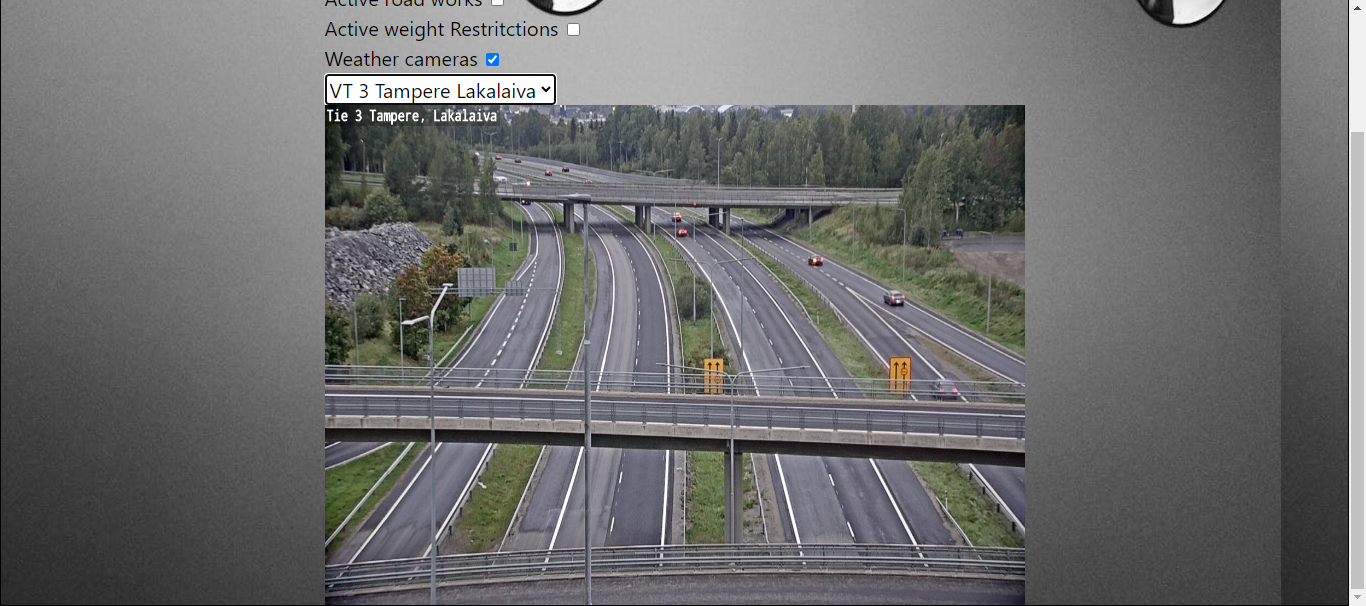
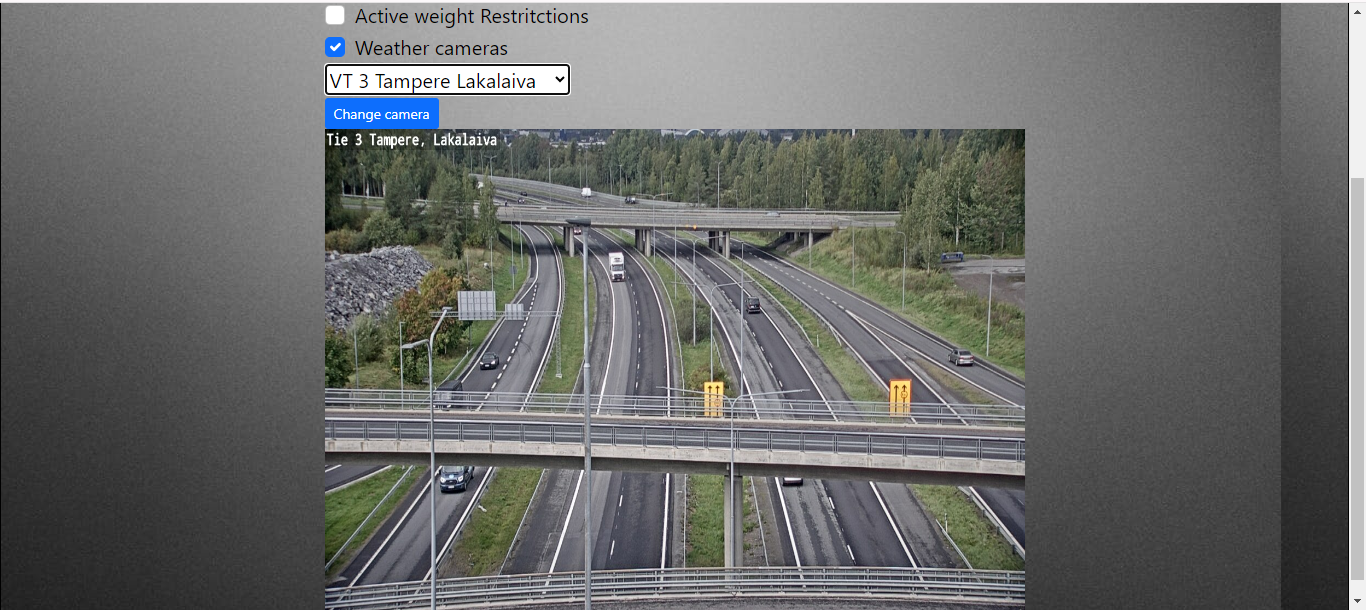
camera change feature added

diff --git a/src/pages/sea.js b/src/pages/sea.js
@@ -8,14 +8,56 @@ function Sea() {
     const [latitude, setLatitude] = useState()
     const [longitude, setLongitude] = useState()
     const [mapState,setMapState]=useState(false)
+    const [waterAreas,setWaterAreas]=useState(true)
+    const [closeButton,setCloseButton]=useState(true)
     
     var clicks=0
+    //useeffect huomaa heti, jos latitude longitude statet muuttuvat
     useEffect(() => {
         setLatitude(latitude);
         setLongitude(longitude)
        
     }, [latitude, longitude])
 
+    function hideContent() {
+        clicks=clicks+1
+        if (clicks % 1 === 0)
+        {
+            document.getElementById("lakeContent").hidden=true
+            setCloseButton(!closeButton)
+            //poistetaan cb:n valinta
+            document.getElementById("safetyCB").checked=false
+
+        }
+       
+    }
+
+
+    function safetyFails() {
+        document.getElementById("lakeContent").hidden=false
+        setCloseButton(!closeButton)
+        const seaUrl = 'https://meri.digitraffic.fi/api/aton/v1/faults'
+      
+        fetch(seaUrl)
+            .then(response => {
+                return response.json()
+            })
+            //data on json-tulosjoukon nimi
+            .then(data => {
+
+                console.log(data)
+                data.features.forEach(d => {
+                    const li = document.createElement("li")
+
+                    //kentässä näytetää json tulosjoukon roadstationid ja sensorvalue-
+                    li.innerText = "Area: " + d.properties.area_description + 'fairway: ' + d.properties.fairway_name_fi+" fixed: "+d.properties.fixed
+                    document.getElementById("list").appendChild(li)
+            })
+        })
+
+                
+
+    }
 
 
     function availableAreas() {
@@ -91,21 +133,30 @@ function Sea() {
                     <Route path="/websocket" element={<WsComponent />} />
                 </Route>
             </Routes>
-
+            <button id="closeBtn" hidden={closeButton} onClick={hideContent}>X</button>
             <div id="lakeContent" className="lakeContent">
                 <ul id="list" className="list"></ul>
             </div>
-            <label for="lake">Choose a water area:</label>
+            <input class="form-check-input" id='safetyCB' type="checkbox" onClick={safetyFails}></input>
+            <label class="form-check-label" for="safetyCB">Safety device faults</label>
+            <br></br>
+            <input class="form-check-input" id='marineCB' type="checkbox" ></input>
+            <label class="form-check-label" for="marineCB">Marine warnings</label>
+            <br></br>
+            <input class="form-check-input" id='waterCB' type="checkbox" onChange={()=>setWaterAreas(!waterAreas)} ></input>
+            <label class="form-check-label" for="waterCB">Water area information</label>
+            <br></br>
+            <label for="lake" hidden={waterAreas}>Choose a water area:</label>
 
-            <select name="lake" id="lake" onChange={e => getSelectedLake(e.target.value)}>
+            <select hidden={waterAreas} name="lake" id="lake" onChange={e => getSelectedLake(e.target.value)}>
                 <option value="8859">Kelloniemi</option>
                 <option value="20169">Hattukari</option>
                 <option value="20243">Kipsi</option>
                 <option value="20244">Talla</option>
             </select>
-            <label htmlFor="map">
+            <label hidden={waterAreas} htmlFor="map">
             Show the water area on the map</label>
-            <input id="map" type="checkbox" onChange={()=>setMapState(!mapState)}></input>
+            <input hidden={waterAreas} id="map" type="checkbox" onChange={()=>setMapState(!mapState)}></input>
             <br></br>
       
 
@@ -120,11 +171,11 @@ function Sea() {
                 <br></br>
                 <Link hidden to="/websocket">WebSocket</Link>
                 <div className="seaInput">
-                    <input type="text" id="name" className="name" placeholder="Or write site number here" onChange={e => setWaterName(e.target.value)}></input>
+                    <input type="text" hidden={waterAreas} id="name" className="name" placeholder="Or write site number here" onChange={e => setWaterName(e.target.value)}></input>
 
-                    <button onClick={() => getSelectedLake(waterName)} class="btn btn-primary">Fetch Data</button>
+                    <button onClick={() => getSelectedLake(waterName)} hidden={waterAreas} class="btn btn-primary">Fetch Data</button>
                     <br></br>
-                    <button class="btn btn-primary btn-sm" onClick={availableAreas}>Show site numbers</button>
+                    <button class="btn btn-primary btn-sm"hidden={waterAreas} onClick={availableAreas}>Show site numbers</button>
                 </div>
                 {mapState && <APIProvider apiKey={""}>
                 <Map

diff --git a/src/pages/weatherCamera.js b/src/pages/weatherCamera.js
@@ -1,24 +1,56 @@
 import { useState } from "react"
 
 function WeatherCam() {
-   
+    const camTre=['https://weathercam.digitraffic.fi/C0450701.jpg','https://weathercam.digitraffic.fi/C0450702.jpg','https://weathercam.digitraffic.fi/C0450703.jpg']
+    const camKur=["https://weathercam.digitraffic.fi/C1051401.jpg","https://weathercam.digitraffic.fi/C1051402.jpg","https://weathercam.digitraffic.fi/C1051409.jpg"]
+    const [camView,setCamView]=useState(0)   
     function getCamera(e) {
-        //e on parametrina saatava optionin value, joka annetaan img elementille sourceksi.
-        document.getElementById("camImg").src=e
+      
+        //talletetaan muuttujaan merkkijonon 3 ensimmäistä kirjainta
+        var city=e.substring(0,3)
+        //poistetaan 3 ensimmäistä kirjainta
+        var final=e.substring(3)
+        localStorage.setItem("city",city)
         
+        
+        //e on parametrina saatava optionin value, joka annetaan img elementille sourceksi.
+        document.getElementById("camImg").src=final
+        
+    }
+    function changeView() {
+        var city=localStorage.getItem("city")
+        console.log(city)
+      
+    
+        if (city==='tre')
+        {
+            setCamView(camView+1)
+            document.getElementById("camImg").src=camTre[camView]
 
+        }
+        else if (city==='kur')
+        {
+            setCamView(camView+1)
+            document.getElementById("camImg").src=camKur[camView]
+        }
+        //var val = WeatherCam()
+        //console.log(val)*/
+      
+    
     }
     return(
         <div>
             {/*e.target value eli valitun optionin value arvo lähetetään getcamera funktiolle*/}
-            <select onChange={e=>getCamera(e.target.value)}>
+            <select id="cameras" onChange={e=>getCamera(e.target.value,this)}>
                 <option value={'empty'} selected>Select</option>
-                <option value={'https://weathercam.digitraffic.fi/C0450701.jpg'}>VT 3 Tampere Lakalaiva</option>
+                <option value={"tre"+camTre[camView]}>VT 3 Tampere Lakalaiva</option>
                 <option value={'https://weathercam.digitraffic.fi/C0951001.jpg'}>V4 Jyväskylä - Vaajakoski</option>
-                <option value={'https://weathercam.digitraffic.fi/C1051401.jpg'}>VT 3 Kurikka</option>
+                <option value={"kur"+camKur[camView]}>VT 3 Kurikka</option>
             </select>
             <br></br>
-            <img id="camImg" width={700} height={500} src={'empty'}></img>
+            <button class="btn btn-primary btn-sm" onClick={changeView}>Change camera</button>
+            <br></br>
+            <img id="camImg" width={700} height={500} alt="camera image" src={'empty'}></img>
            
 
         </div>

diff --git a/src/pages/road.js b/src/pages/road.js
@@ -112,23 +112,7 @@ function Road() {
             </div>
             {wcam && <WeatherCam />}
          
-            {/*}
-            <label htmlFor="announcementCB" >Road traffic announcements</label>
-            <input id="announcementCB" type="checkbox" onChange={roadAnnounce}></input>
-            <br></br>
-            <label htmlFor="roadworksCB" >Active road works</label>
-            <input id="roadworksCB" type="checkbox" onChange={roadWorks}></input>
-            <br></br>
-            <label htmlFor="weightCB" >Active weight Restritctions</label>
-            <input id="weightB" type="checkbox" onChange={weightRistrictions}></input>
-            <br></br>
-            <label htmlFor="cameraCB" >Weather cameras</label>
-            <input id="cameraCB" type="checkbox" onChange={() => setWcam(!wcam)}></input>
-            {wcam && <WeatherCam />}
-            {/*}
-                <img src="https://weathercam.digitraffic.fi/C0450701.jpg"></img>*/}
-
-
+      
         </div>
     )
 }

diff --git a/README.md b/README.md
@@ -21,6 +21,9 @@ GraphQL API queries are available for rail traffic and user can write queries th
 
 Weather camera images are retrieved from weathercam.digitraffic.fi/(id) The images of the camera to be displayed are selected from the html selection component and the selected image is displayed in the html img element. The URLs of the camera images are stored in variables and the selected component has an onChange event handler function that performs the search and display of the user's desired image.
 
+The image of each weather camera can be changed by pressing the "change camera" button.
+There are 3 different angles for each camera.
+
 Readability of the response text
 
 The text is mostly readable. However, some extra characters from the answers have been removed to improve the user experience using the JavaScript substitution method.
@@ -53,5 +56,8 @@ An example picture where the user has selected a road camera from the html selec
 
 ![alt text](src/images/weatherCam.png)
 
+Example image when the user has clicked the "change camera" button and the camera image has changed.
+
+![alt text](src/images/weatherCamChange.png)
 
 
